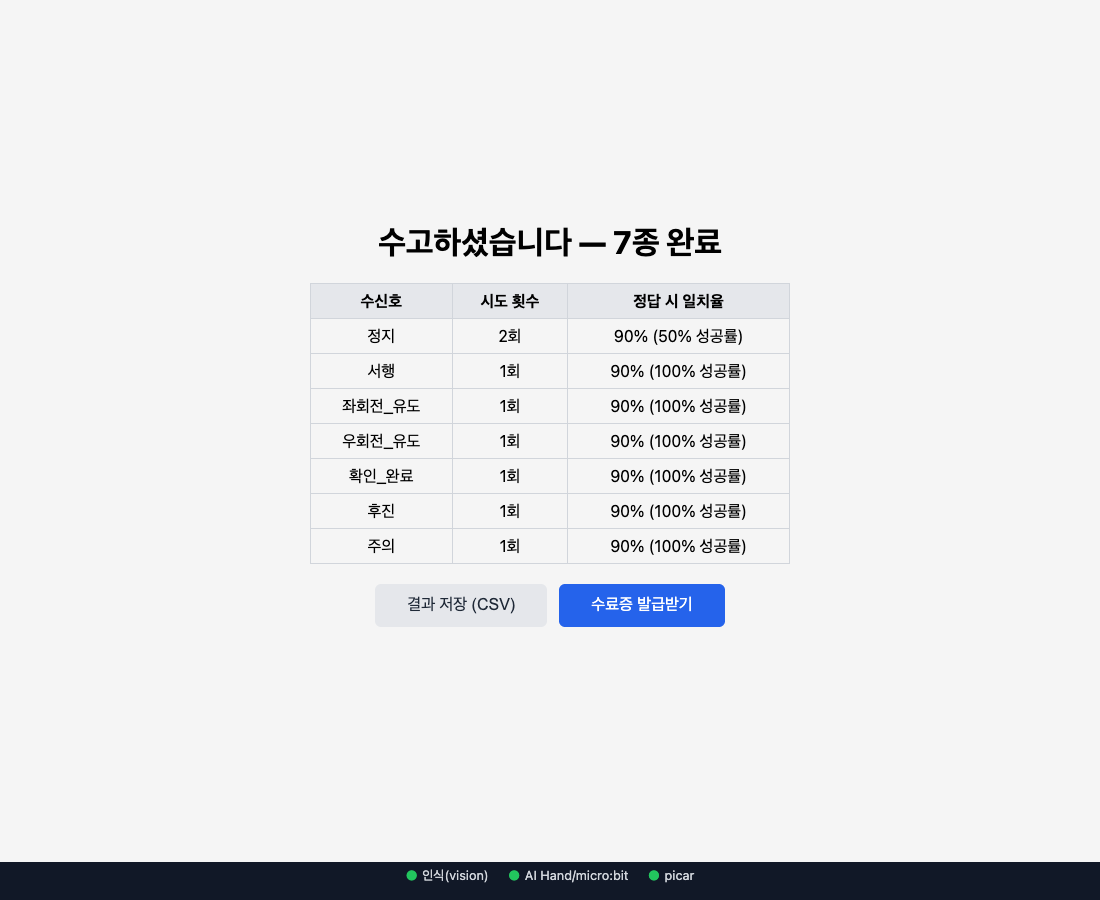
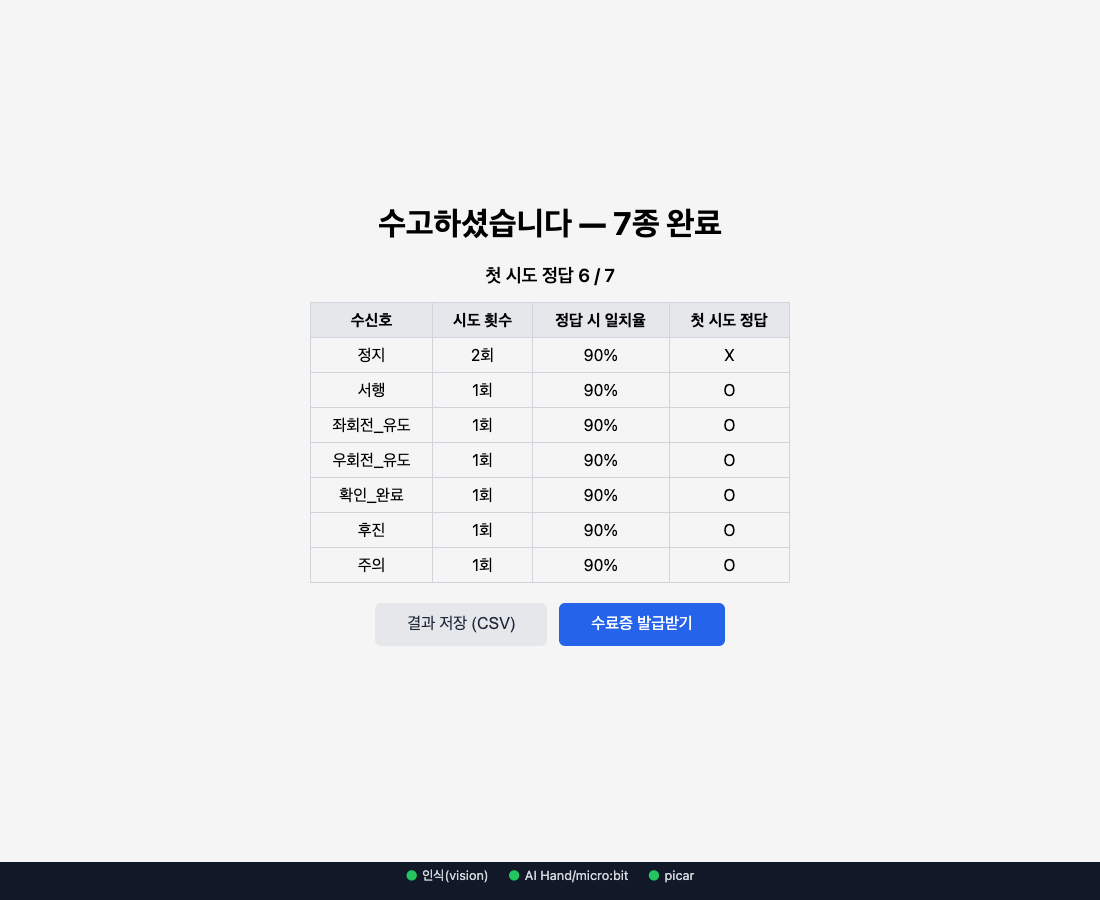
[web] 결정 2건: 성공률 → "첫 시도 정답", SC-04 임계값 15회 → 25회(약 5초)
14 §9에서 조은수가 정할 값으로 남아 있던 두 항목을 확정한다.

- SC-05·06 "성공률"(100/시도 횟수) → "첫 시도 정답"(수신호별 O/X + 전체 k/7).
  100/시도 횟수는 시도 횟수를 다른 모양으로 쓴 값인데 "50% 성공률"처럼 보여 KPI 정답률
  (시스템 판정 정확도)과 헷갈렸다. 화면·수료증·결과 저장 CSV(열 이름 "첫 시도 정답")가
  firstTry() 한 곳을 쓴다.
- SC-04 임계값 15회(약 3초) → 25회(약 5초). 9/25 실물 데모에서 판정 시작 → 정답까지
  1.2~8.0초(중앙값 2.3초)라 3초는 정상 동작도 SC-04로 넘길 수 있었다. 재시험에서 코드 수정
  없이 조정할 수 있게 CAMERA_FAIL_STREAK_THRESHOLD 환경변수로 받는다.
- 09·14·15·16·스펙·KPI 안건·README의 현재값 표기와 SC-05·06 캡처 갱신 (날짜가 찍힌 과거 기록은 유지)

web 테스트 58개, 브라우저 검증(첫 시도 정답 표시 포함) 전부 통과.

Changed region(s): [[0.2782, 0.2178, 0.7109, 0.7156]]

diff --git a/services/web/frontend/main.js b/services/web/frontend/main.js
@@ -291,10 +291,15 @@ document.getElementById("camera-retry-btn").addEventListener("click", () => {
 
 // ---- SC-05 ----
 
-// 09_화면목록 §미확정: "성공률" 정의는 KPI 정답률과 혼동될 수 있어 확인 대기 중.
-// 정의가 바뀌면 이 함수만 고치면 화면·수료증·CSV가 함께 따라간다.
-function successRate(item) {
-  return Math.round(100 / item.attempts);
+// 학습자 지표 = "첫 시도 정답" (2026-09-29 조은수 결정, 14 §9). 예전 "성공률"(100/시도 횟수)은 시도 횟수를 다른
+// 모양으로 쓴 값인데 "50% 성공률"처럼 보여 KPI 정답률(시스템 판정 정확도)과 헷갈렸다. 교육자에게 필요한 것은
+// "어느 수신호를 한 번에 못 맞혔나"라서 O/X로 보인다. 화면·수료증·CSV가 모두 이 두 함수를 쓴다.
+function firstTry(item) {
+  return item.attempts === 1;
+}
+
+function firstTryCount(completed) {
+  return completed.filter(firstTry).length;
 }
 
 function renderSummary(completed) {
@@ -303,14 +308,16 @@ function renderSummary(completed) {
   tbody.innerHTML = "";
   completed.forEach((item) => {
     const tr = document.createElement("tr");
-    const accuracy = successRate(item);
     tr.innerHTML = `
       <td>${item.signal}</td>
       <td>${item.attempts}회</td>
-      <td>${item.match_score}% (${accuracy}% 성공률)</td>
+      <td>${item.match_score}%</td>
+      <td>${firstTry(item) ? "O" : "X"}</td>
     `;
     tbody.appendChild(tr);
   });
+  document.getElementById("summary-first-try").textContent =
+    `첫 시도 정답 ${firstTryCount(completed)} / ${completed.length}`;
 }
 
 // ---- SC-05 결과 저장 (web 할 일 ⑨, 09_화면목록 SC-05 "교육자용 결과 파일 저장") ----
@@ -352,9 +359,9 @@ document.getElementById("export-btn").addEventListener("click", () => {
     return;
   }
   const stamp = localTimestamp(new Date());
-  const rows = [["저장일자", "저장시각", "수신호", "시도 횟수", "정답 시 일치율(%)", "성공률(%)"]];
+  const rows = [["저장일자", "저장시각", "수신호", "시도 횟수", "정답 시 일치율(%)", "첫 시도 정답"]];
   lastCompleted.forEach((item) => {
-    rows.push([stamp.date, stamp.time, item.signal, item.attempts, item.match_score, successRate(item)]);
+    rows.push([stamp.date, stamp.time, item.signal, item.attempts, item.match_score, firstTry(item) ? "O" : "X"]);
   });
   downloadCsv(`safesign_result_${stamp.file}.csv`, toCsv(rows));
   status.textContent = `결과 ${lastCompleted.length}건을 저장했습니다.`;
@@ -394,14 +401,14 @@ function drawCertificate(completed, issuedAt) {
   let y = 230;
   ctx.font = "15px system-ui, sans-serif";
   completed.forEach((item, i) => {
-    const accuracy = successRate(item);
     ctx.fillText(
-      `${i + 1}. ${item.signal}  —  시도 ${item.attempts}회 / 최종 일치율 ${item.match_score}% (${accuracy}% 성공률)`,
+      `${i + 1}. ${item.signal}  —  시도 ${item.attempts}회 / 최종 일치율 ${item.match_score}%${firstTry(item) ? "  (첫 시도 정답)" : ""}`,
       60,
       y
     );
     y += 30;
   });
+  ctx.fillText(`첫 시도 정답 ${firstTryCount(completed)} / ${completed.length}`, 60, y + 10);
 
   ctx.font = "14px system-ui, sans-serif";
   ctx.fillStyle = "#666";

diff --git a/services/web/frontend/index.html b/services/web/frontend/index.html
@@ -86,9 +86,10 @@
     <!-- SC-05: 학습 완료/집계 -->
     <section id="screen-summary" class="screen">
       <h1>수고하셨습니다 — 7종 완료</h1>
+      <p id="summary-first-try" class="summary-first-try"></p>
       <table id="summary-table" class="summary-table">
         <thead>
-          <tr><th>수신호</th><th>시도 횟수</th><th>정답 시 일치율</th></tr>
+          <tr><th>수신호</th><th>시도 횟수</th><th>정답 시 일치율</th><th>첫 시도 정답</th></tr>
         </thead>
         <tbody id="summary-tbody"></tbody>
       </table>

diff --git a/services/web/frontend/style.css b/services/web/frontend/style.css
@@ -232,6 +232,12 @@ button.confirm-btn:disabled {
 }
 
 /* SC-05 */
+.summary-first-try {
+  font-size: 1.15rem;
+  font-weight: 600;
+  margin: 0.5rem 0 0;
+}
+
 .summary-table {
   border-collapse: collapse;
   margin: 1rem auto;

diff --git a/services/web/backend/state_machine.py b/services/web/backend/state_machine.py
@@ -103,10 +103,10 @@ _TRIAL_LOG_NAME = f"web_trials_{datetime.now():%Y%m%d_%H%M%S}.csv"
 DEVICE_HEALTH_INTERVAL_S = float(os.getenv("DEVICE_HEALTH_INTERVAL_S", "5.0"))
 DEVICE_HEALTH_TIMEOUT_S = 1.5
 
-# 손 미검출(no_hand/normalize_failed)이 연속 몇 회 지속되면 SC-04로 전환할지 — 09_화면목록.md가
-# "임계값 필요"라고만 표시하고 수치는 정의하지 않아, POLL_INTERVAL_S 0.2초 기준 약 3초에 해당하는
-# 잠정치를 둔다. 실측 후 조정 대상(TBD).
-CAMERA_FAIL_STREAK_THRESHOLD = 15
+# 판정 단계에서 손 미검출(no_hand/normalize_failed)이 연속 몇 회면 SC-04로 전환할지. 25회 = POLL_INTERVAL_S 0.2초 기준
+# 약 5초(2026-09-29 조은수 결정, 14 §9). 9/25 실물 데모에서 판정 시작 → 정답까지 1.2~8.0초(중앙값 2.3초)라 예전 15회(3초)는
+# 정상적으로 손을 올리는 학습자도 SC-04로 넘길 수 있었다. 재시험(⑥)에서 코드 수정 없이 바꿀 수 있게 환경변수로 받는다.
+CAMERA_FAIL_STREAK_THRESHOLD = int(os.getenv("CAMERA_FAIL_STREAK_THRESHOLD", "25"))
 
 # SC-01~SC-07 상태값. 09_화면목록.md 표와 동기화 유지.
 # 구 SC-02(분야 선택)·SC-08(관리자 등록)은 아키텍처 변경으로 제거됨.

diff --git a/document/09_화면목록.md b/document/09_화면목록.md
@@ -47,7 +47,7 @@
 | ㄴ SC-03 판정 | ㄴ 판정 단계 | 학습자 손모양을 인식·판정 | 시범 단계에서 확인 버튼 / 스페이스바 | 실시간 match_score, 예시 사진(작게 또는 숨김 — 레이아웃은 web 담당 판단) | SC-03a / SC-03b / SC-04 | 필수 | 🔴 구현 예정 (현재는 단계 구분 없이 상시 판정) |
 | ㄴ SC-03a | ㄴ 정답 상태(오버레이) | 정답 처리 + 일치율 표기 후 다음 수신호로 자동 전환 | 판정 단계에서 `predicted_class`=정답 (**즉시 확정**) | “정답” 표시, 일치율(match_score) 숫자, picar 동작 완료 표시, 자동 전환 카운트다운 | 다음 수신호의 SC-03 시범 단계 또는 SC-05 (마지막 수신호였을 경우) | 필수 | ✅ 구현 (2초 후 자동 전환, 카운트다운 숫자는 미표시) |
 | ㄴ SC-03b | ㄴ 오답 상태(오버레이) | 오답 안내 + 권장 재도전 횟수 안내 | 판정 단계에서 `predicted_class`≠정답이 **같은 클래스로 1초 이상 유지**(2026-09-27). `below_tau`·`out_of_distribution`도 SC-03b(문구만 다름) | 사유별 문구(오답 “다시 시도하세요” / below_tau “조금 더 정확히 해주세요” / OOD “다른 수신호를 하고 계세요”), 일치율, 권장 재도전 횟수(n회), 현재 시도 횟수 | AI Hand 재시범과 함께 **SC-03 시범 단계**(예시 사진 다시 표시 + 확인 버튼) | 필수 | ✅ 구현(문구 구분) · 🔴 1초 유지 · 시범 단계 복귀 구현 예정 |
-| SC-04 | 카메라 인식 실패 안내 화면 | 조명/각도 등으로 인식 자체가 안 될 때 안내 | **판정 단계에서** 손 미검출(`no_hand`/`normalize_failed`) **15회 연속(약 3초, 잠정)**. 시범 단계에서는 세지 않음(2026-09-27) | “카메라 위치를 조정해주세요” 안내 메시지, 재시도 버튼 | SC-03 판정 단계 (**손이 다시 보이면 자동 복귀**) | 필수 (예외 처리) | ✅ 구현 · 🔴 시범 단계 카운트 정지 구현 예정 |
+| SC-04 | 카메라 인식 실패 안내 화면 | 조명/각도 등으로 인식 자체가 안 될 때 안내 | **판정 단계에서** 손 미검출(`no_hand`/`normalize_failed`) **25회 연속(약 5초, 2026-09-29 조은수 결정 — 이전 15회/3초)**, 환경변수 `CAMERA_FAIL_STREAK_THRESHOLD`로 조정. 시범 단계에서는 세지 않음(2026-09-27) | “카메라 위치를 조정해주세요” 안내 메시지, 재시도 버튼 | SC-03 판정 단계 (**손이 다시 보이면 자동 복귀**) | 필수 (예외 처리) | ✅ 구현 · ✅ 시범 단계 카운트 정지(2026-09-28) |
 | SC-05 | 학습 완료/집계 화면 | 전체 수신호(7종) 정답 처리 완료 시 결과 집계 | SC-03에서 마지막 수신호까지 정답 처리 완료 | 수신호별 정답률/시도 횟수 집계, **교육자용 결과 파일 저장**(2026-09-27 추가) | SC-06 | 필수 (결과 저장은 부가) | ✅ 구현(집계 표 · **결과 저장 CSV 2026-09-28**) |
 | SC-06 | 수료증 발급 화면 | 수료증 자동 발급 안내 | SC-05에서 “수료증 발급받기” (7종 모두 완료해야 발급) | 수료증(canvas → PNG 저장 / 인쇄로 PDF 저장), 다시 학습하기 버튼 | SC-01 (다시 학습하기) 또는 종료 | 필수 | ✅ 구현 (정식 디자인 미정) |
 | SC-07 | 중간 이탈 재접속 화면 | 학습 중 이탈 후 재접속 시 안내 (세션 이어하기 미구현 — 항상 처음부터 재시작) | 재접속(새로고침) 시 이전 세션 존재(`state ≠ landing`) | “이전 학습이 종료되었습니다. 처음부터 다시 시작합니다” 안내 | SC-01 (처음부터) | 필수 (예외 처리) | ✅ 구현 |
@@ -66,7 +66,7 @@
                   ▼
               [판정 단계]
        ┌──────────┼──────────────────────┐
-    정답(즉시)   같은 오답 1초 유지       손 미검출 15회
+    정답(즉시)   같은 오답 1초 유지       손 미검출 25회
        │          │                       │
    SC-03a     SC-03b → AI Hand 재시범     SC-04 ─(손이 보이면)─▶ 판정 단계
        │          → [시범 단계]로
@@ -91,12 +91,14 @@
 - **`below_tau`/`out_of_distribution` 처리** (2026-09-27 신규): 지금은 나오는 즉시 SC-03b + 물리 피드백. 손을
   올리는 도중에도 자주 나오는 값이라 (a) 오답처럼 1초 유지 시 확정 (b) 화면 문구만 보여주고 물리 피드백은
   보내지 않음 중 선택 필요 — web 담당 판단
-- **SC-05·SC-06의 “성공률” 정의** (2026-09-27 신규): 현재 `100 / 시도 횟수`로 계산된다. KPI “정답률”과
-  혼동될 수 있어 지표 이름·정의 확인 필요. **2026-09-28부터 이 값이 결과 저장 CSV(⑨)에도 열로 나가**
-  교육자 손에 파일로 남으므로 확정 우선순위가 올라갔다. 계산은 `main.js` `successRate()` 한 곳에 모아 두었다
+- ~~**SC-05·SC-06의 “성공률” 정의**~~ → **2026-09-29 조은수 결정: "첫 시도 정답"(O/X)으로 교체.** `100 / 시도 횟수`는 시도 횟수를
+  다른 모양으로 쓴 값인데 "50% 성공률"처럼 보여 KPI 정답률(시스템 판정 정확도)과 헷갈렸다. 교육자가 알고 싶은
+  "어느 수신호를 한 번에 못 맞혔나"를 수신호별 O/X로, 전체는 "첫 시도 정답 k/7"로 보인다. 화면·수료증·결과 저장 CSV(⑨,
+  열 이름 `첫 시도 정답`) 모두 `main.js` `firstTry()` 한 곳을 쓴다
 - **SC-03b 권장 재도전 횟수 산식**: 어느 문서에도 정의되지 않아 match_score 구간별 잠정치(≥70 → 1회, ≥40 → 2회,
   그 외 3회)로 구현됨. 교육 설계 확정 필요
-- **SC-04 진입 임계값**: 15회 연속(약 3초) 잠정치. 시범 단계 카운트 정지를 반영한 뒤 실측 조정
+- ~~**SC-04 진입 임계값**~~ → **2026-09-29 조은수 결정: 25회 연속(약 5초).** 9/25 실물 데모에서 판정 시작 → 정답까지 1.2~8.0초(중앙값 2.3초)라
+  3초는 정상적으로 손을 올리는 학습자도 SC-04로 넘길 수 있었다. ⑥ 재시험에서 필요하면 환경변수 `CAMERA_FAIL_STREAK_THRESHOLD`로 조정
 - **SC-03 카메라 실시간 미리보기**: vision에 프레임 스트리밍 엔드포인트가 없어 자리표시자만 있다. 스트리밍
   방식(MJPEG/WebSocket 등)을 vision 담당과 협의 필요
 - **SC-06 수료증 디자인**: 현재 canvas 기본 레이아웃. 정식 템플릿 확정 필요

diff --git a/document/15_개발로그.md b/document/15_개발로그.md
@@ -1572,7 +1572,7 @@ vision `Dockerfile`·README §5, actuation·picar README "실물 실행 (Docker)
 **다음 할 일**
 - [ ] ⑥ web 전 구간 실물 재시험(송승호와, 10/02) → 14 §6.2
 - [ ] ②-b 실측 CSV로 `aggregate_kpi.py` 실행 → 06 §2 기입
-- [ ] 결정: SC-05·06 "성공률" 이름·정의(14 §9 유일한 `【확인 필요】`), SC-04 임계값(재시험 때)
+- [x] 결정(2026-09-29): SC-05·06 "성공률" → "첫 시도 정답"(O/X, 전체 k/7), SC-04 임계값 15회 → 25회(약 5초, 9/25 실측 1.2~8.0초 근거, 환경변수로 조정 가능)
 
 ---
 
@@ -1796,8 +1796,8 @@ vision `Dockerfile`·README §5, actuation·picar README "실물 실행 (Docker)
 - [x] ~~`below_tau`/OOD 처리(1초 유지 후 확정 vs 화면 안내만)~~ → **화면 안내만**으로 결정·구현(2026-09-28 이동혁, 14 D10). 후속: 온라인 미판정률 집계 방법(16 §6.4)
 - [ ] 권장 재도전 횟수 산식, 커리큘럼 순서 · **이동혁** (교육 설계)
 - [ ] 물리피드백지연 KPI "완료" 정의 · **이동혁** (picar 변경안 안건 2, 11 §10 #4)
-- [ ] SC-05·SC-06 "성공률"(`100 / 시도 횟수`) 지표 이름·정의 · **조은수** — KPI 정답률과 혼동 우려
-- [ ] SC-04 임계값(15회 잠정) · **조은수** — ⑥ 재시험에서 조정
+- [x] ~~SC-05·SC-06 "성공률"(`100 / 시도 횟수`) 지표 이름·정의~~ · **조은수** — 2026-09-29 "첫 시도 정답"(O/X)으로 교체 (14 §9)
+- [x] ~~SC-04 임계값(15회 잠정)~~ · **조은수** — 2026-09-29 25회(약 5초)로 결정, ⑥ 재시험에서 필요하면 `CAMERA_FAIL_STREAK_THRESHOLD`로 조정 (14 D5)
 
 **종결·완료**
 - [x] ~~수신호 예시 사진 촬영·제공 담당 결정~~ → 김지훈(2026-09-28), 작업은 ⑩

diff --git a/document/proposals/web_판정_타이밍_스펙.md b/document/proposals/web_판정_타이밍_스펙.md
@@ -47,7 +47,7 @@ web은 **판정이 나온 뒤에만** AI Hand를 움직이고, 움직인 직후 
                                             ▼
                                         판정 중
             ┌───────────────────────────────┼───────────────────────────┐
-         정답(즉시)                 같은 오답 1초 유지                   손 미검출 15회
+         정답(즉시)                 같은 오답 1초 유지                   손 미검출 25회
             │                               │                              │
    정답 피드백(AI Hand·picar·micro:bit)  오답 피드백 + 재시범             SC-04
             │                     + 예시 사진 + [확인]  ← 판정 멈춤     (손이 보이면 판정 중으로 복귀)
